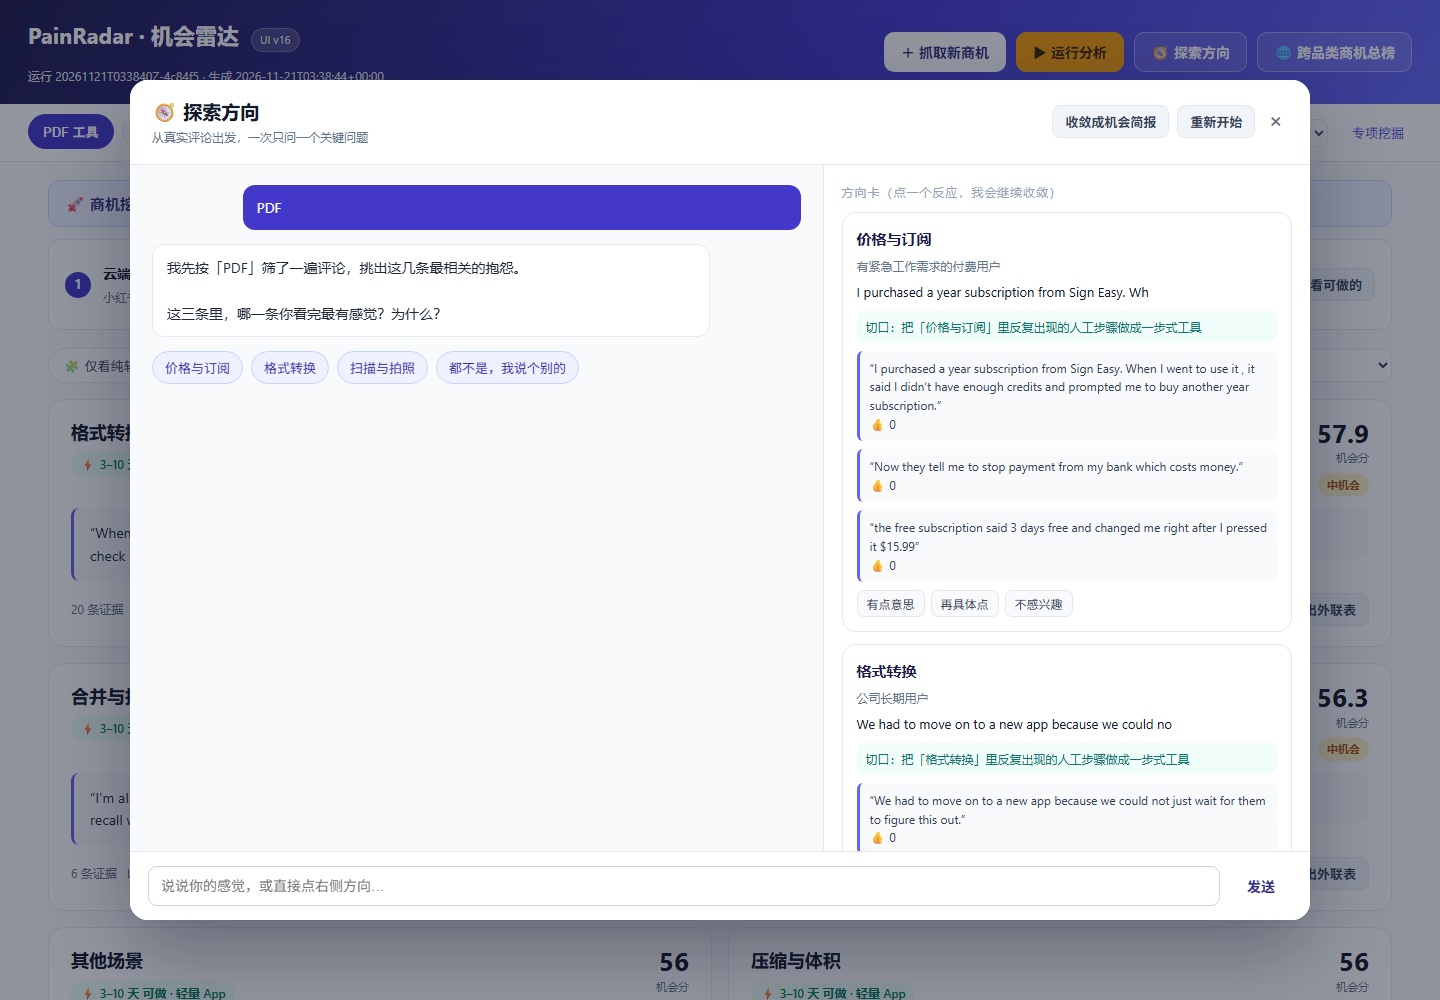
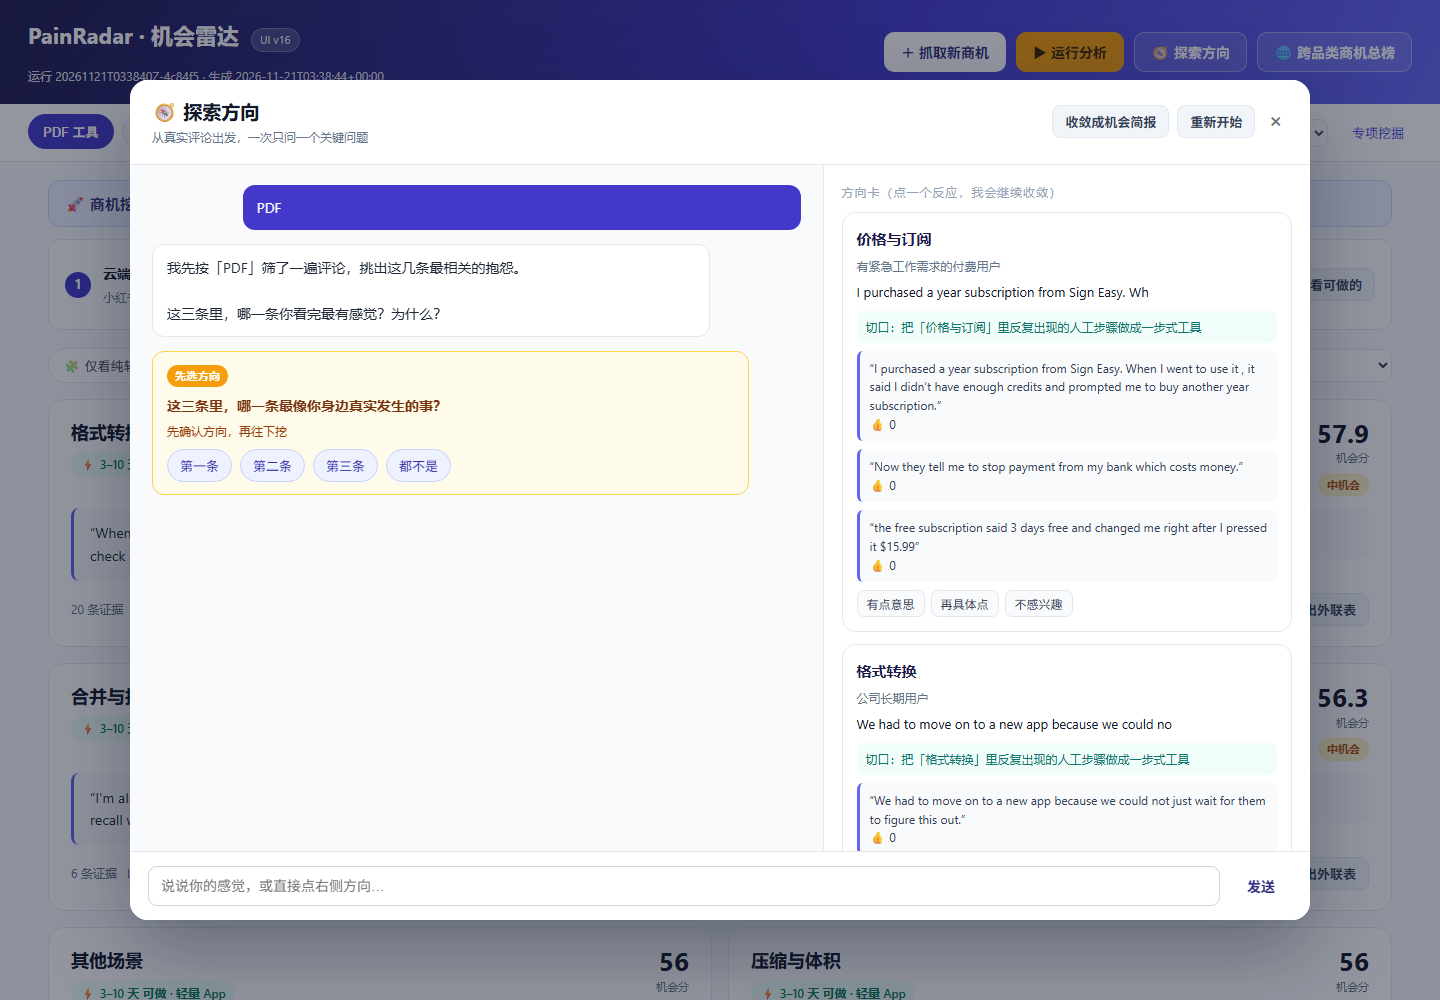
feat(explore): counterfactual and willingness-to-pay pressure rounds

Changed region(s): [[0.0938, 0.341, 0.4062, 0.496]]

diff --git a/src/painradar/api/static/app.js b/src/painradar/api/static/app.js
@@ -2082,6 +2082,15 @@ function renderExplore() {
   const lastCoach = [...messages].reverse().find((m) => m.role === "assistant");
   const directions = (lastCoach && lastCoach.directions) || [];
   const chips = (lastCoach && lastCoach.chips) || [];
+  const probe = lastCoach && lastCoach.probe;
+  const probeLabels = {
+    direction: "先选方向",
+    counterfactual: "反常识验证",
+    payment: "付费意愿",
+    substitute: "替代方案",
+    competition: "竞争判断",
+    fetch: "先补数据",
+  };
 
   const bubbles = messages.map((m) => {
     if (m.role === "user") return `<div class="ex-bubble user">${esc(m.content)}</div>`;
@@ -2091,7 +2100,17 @@ function renderExplore() {
     return "";
   }).join("");
 
-  $("#exchat").innerHTML = bubbles + (chips.length
+  const probeChips = (probe && probe.chips) || [];
+  const probeHtml = probe
+    ? `<div class="ex-probe">
+         <span class="ex-probe-kind">${esc(probeLabels[probe.kind] || "追问")}</span>
+         <p>${esc(probe.question)}</p>
+         ${probe.why ? `<div class="ex-probe-why">${esc(probe.why)}</div>` : ""}
+         <div class="ex-chips">${probeChips.map((c) => `<button class="ex-chip ex-probe-chip" type="button">${esc(c)}</button>`).join("")}</div>
+       </div>`
+    : "";
+
+  $("#exchat").innerHTML = bubbles + probeHtml + (!probe && chips.length
     ? `<div class="ex-chips">${chips.map((c) => `<button class="ex-chip" type="button">${esc(c)}</button>`).join("")}</div>`
     : "");
   $("#exchat").querySelectorAll(".ex-chip").forEach((el) =>

diff --git a/src/painradar/api/static/style.css b/src/painradar/api/static/style.css
@@ -329,3 +329,11 @@ body{background:#F8FAFC}
   .explore-side{border-left:0;border-top:1px solid #e5e7eb;max-height:42vh}
   .explore-box{height:94vh}
 }
+
+.ex-probe{background:#fffbeb;border:1px solid #fcd34d;border-radius:12px;
+  padding:12px 14px;margin:4px 0 14px;max-width:92%}
+.ex-probe-kind{display:inline-block;background:#f59e0b;color:#fff;border-radius:999px;
+  padding:2px 8px;font-size:11px;font-weight:700;letter-spacing:.03em}
+.ex-probe p{margin:8px 0 6px;font-size:14px;font-weight:600;color:#78350f;line-height:1.55}
+.ex-probe-why{font-size:12px;color:#92400e;margin-bottom:8px}
+.ex-probe .ex-chips{margin:0}

diff --git a/tests/test_explore.py b/tests/test_explore.py
@@ -97,6 +97,27 @@ class ExploreApiTests(unittest.TestCase):
     def test_unknown_session(self):
         self.assertEqual(self.client.get("/api/explore/sessions/nope").status_code, 404)
 
+    def test_pressure_rounds_progress(self):
+        start = self.client.post("/api/explore/sessions", json={"seed": "PDF"}).json()
+        sid = start["session_id"]
+        self.assertEqual(start["probe"]["kind"], "direction")
+
+        first = self.client.post(
+            f"/api/explore/sessions/{sid}/turn",
+            json={"message": "第一条有点意思", "reaction": {"title": "PDF 合并收费", "reaction": "like"}},
+        ).json()
+        self.assertEqual(first["probe"]["kind"], "counterfactual")
+
+        second = self.client.post(
+            f"/api/explore/sessions/{sid}/turn", json={"message": "他们其实能忍"}
+        ).json()
+        self.assertEqual(second["probe"]["kind"], "payment")
+
+    def test_converge_has_payment_hypothesis(self):
+        start = self.client.post("/api/explore/sessions", json={"seed": "PDF"}).json()
+        markdown = self.client.post(f"/api/explore/sessions/{start['session_id']}/converge").json()["markdown"]
+        self.assertIn("付费假设", markdown)
+
 
 if __name__ == "__main__":
     unittest.main()

diff --git a/README.md b/README.md
@@ -282,6 +282,7 @@ python run.py run --category pet_water_fountain --extractor rule --mode b2b
 
 - 证据按种子关键词过滤；语料里没有相关评论时，会明确提示先抓一批，而不是拿无关评论充数；
 - 配置了 PAINRADAR_LLM_* 时，追问和方向由模型生成；未配置时退回规则模板（可用，但不够灵活）；
+- **压力测试**：选定方向后，先问“如果这个痛点是假的，最可能的原因是什么”，再问“谁会掏钱、愿意付多少、这笔预算现在花在哪”，避免只收集赞同；
 - 会话保存在 ar/explore_sessions/*.json，刷新/重启不丢；
 - 接口：POST /api/explore/sessions、POST .../{id}/turn、POST .../{id}/converge。
 

diff --git a/docs/changelog.md b/docs/changelog.md
@@ -177,3 +177,9 @@ painradar demo --reset
 - 种子关键词相关性过滤，无相关证据时明确提示先抓数据；
 - WebUI 新增「🧭 探索方向」全屏面板，方向卡可点击反馈；
 - 会话持久化到 `var/explore_sessions/`。
+
+## 2026-11-21 · 探索模式压力测试
+
+- 方向选定后依次追问：反常识验证（痛点是否不成立）→ 付费意愿（谁掏钱/多少钱/预算来源）→ 替代方案；
+- 追问以可点击的「probe 卡」呈现，回答写入会话；
+- 收敛简报新增「付费假设（需要当面验证）」。
